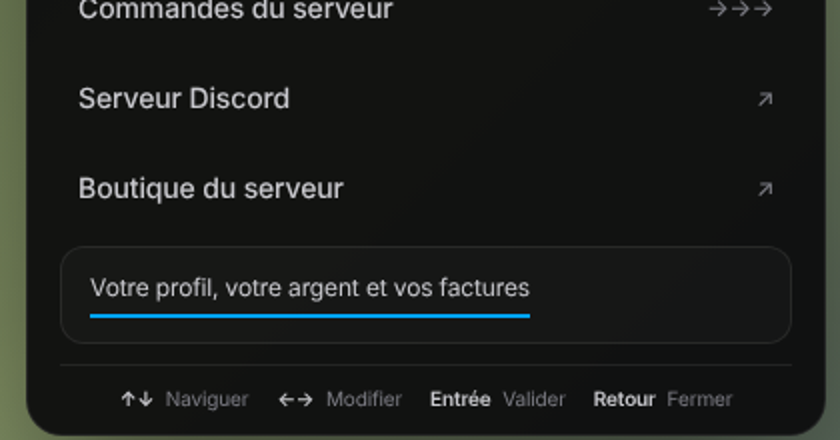
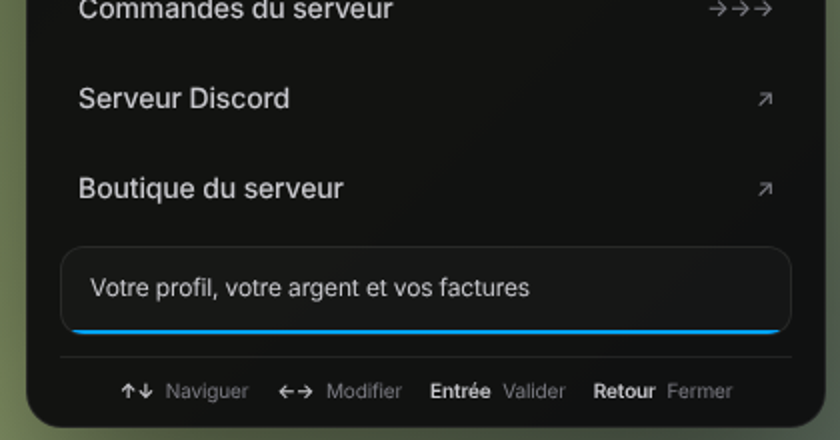
Menus NUI : trait bleu du texte d'aide sur toute la largeur du cadre
Claude-Session: https://claude.ai/code/session_01T3Qi8D5NidPuELfjgkR2RY

Changed region(s): [[0.031, 0.8568, 0.9905, 1.0], [0.0929, 0.7091, 0.9286, 0.7682]]

diff --git a/resources/[script]/pickax_ui/html/style.css b/resources/[script]/pickax_ui/html/style.css
@@ -78,8 +78,8 @@ html, body { height: 100%; background: transparent; color: var(--text); font-fam
 .badge.star { color: #fbbf24; }
 .it.act .badge { color: var(--act-text); }
 
-.desc { margin: 8px 4px 2px; padding: 11px 14px 12px; border-radius: min(var(--r-btn), 22px); border: 1px solid var(--line); background: var(--surface); color: var(--text-2); font-size: 12px; line-height: 1.5; }
-.desc .dt { display: inline-block; max-width: 100%; padding-bottom: 4px; border-bottom: 2px solid var(--accent); }
+.desc { position: relative; overflow: hidden; margin: 8px 4px 2px; padding: 11px 14px 14px; border-radius: min(var(--r-btn), 22px); border: 1px solid var(--line); background: var(--surface); color: var(--text-2); font-size: 12px; line-height: 1.5; }
+.desc::after { content: ''; position: absolute; left: 0; right: 0; bottom: 0; height: 2px; background: var(--accent); }
 
 .keys { display: flex; flex-wrap: wrap; gap: 4px 14px; justify-content: center; margin: 10px 4px 0; padding-top: 10px; border-top: 1px solid var(--line); font-size: 10px; color: var(--muted); }
 .keys b { color: var(--text-2); font-weight: 600; margin-right: 3px; }
